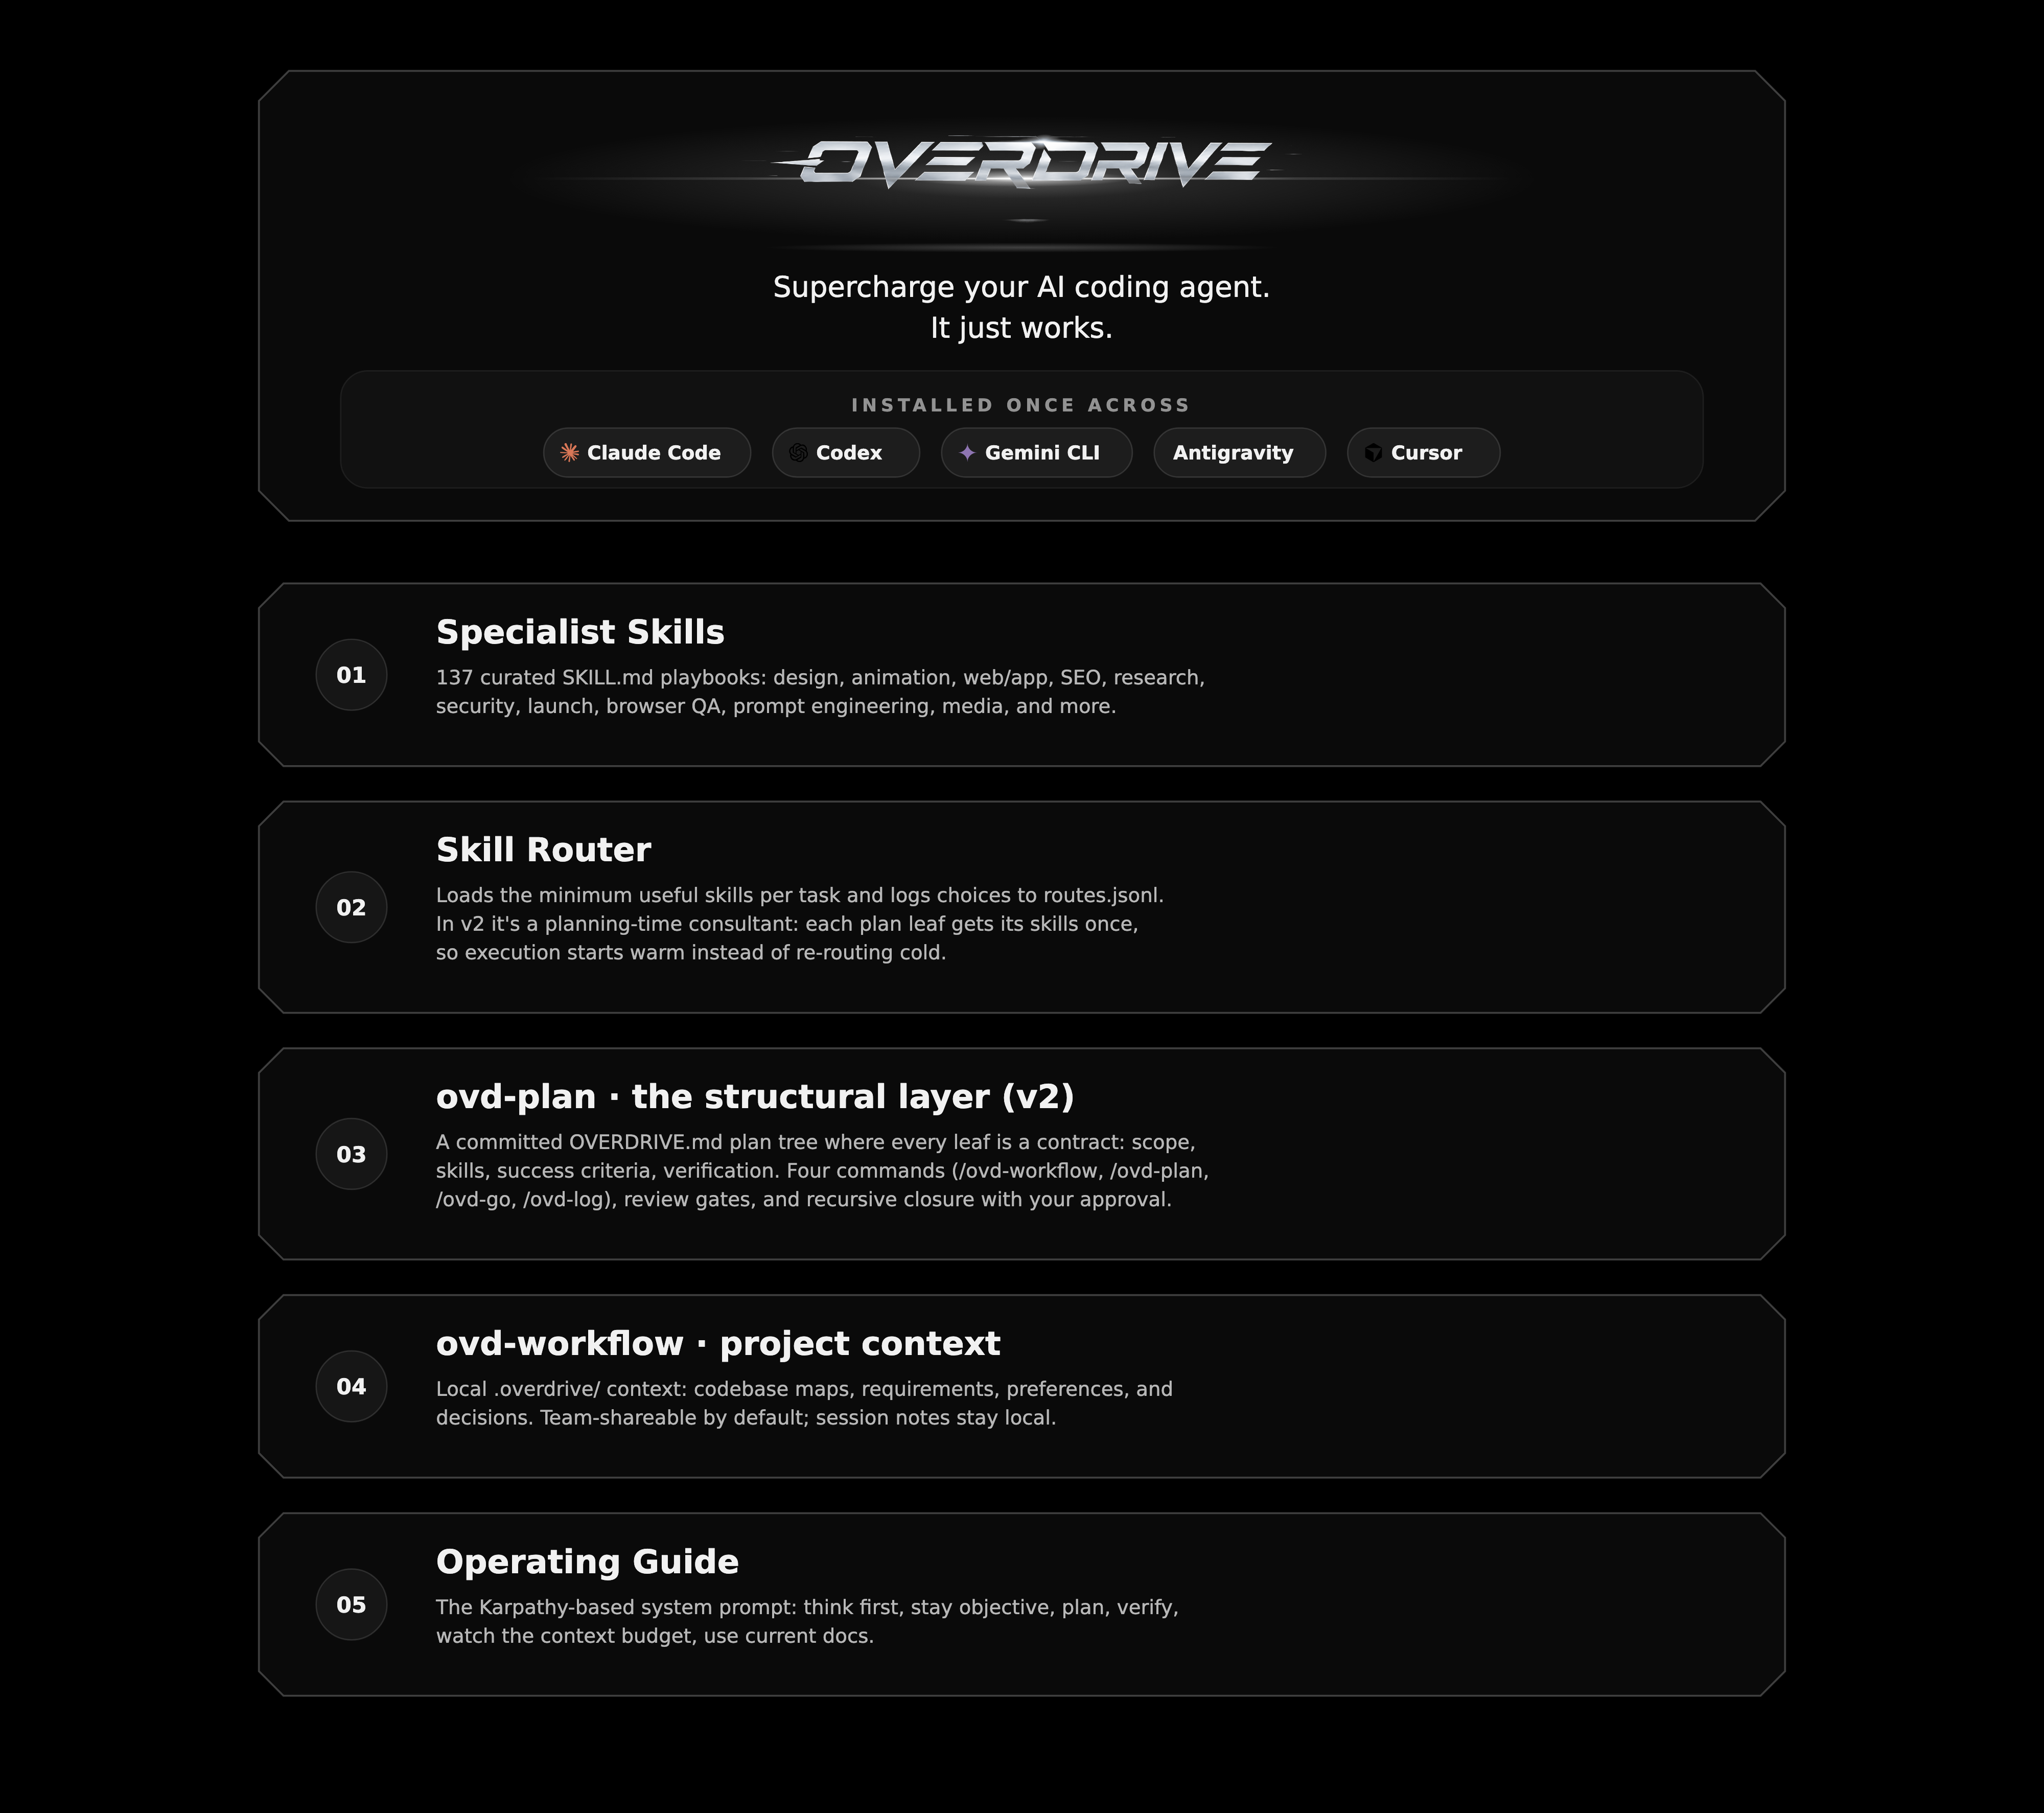
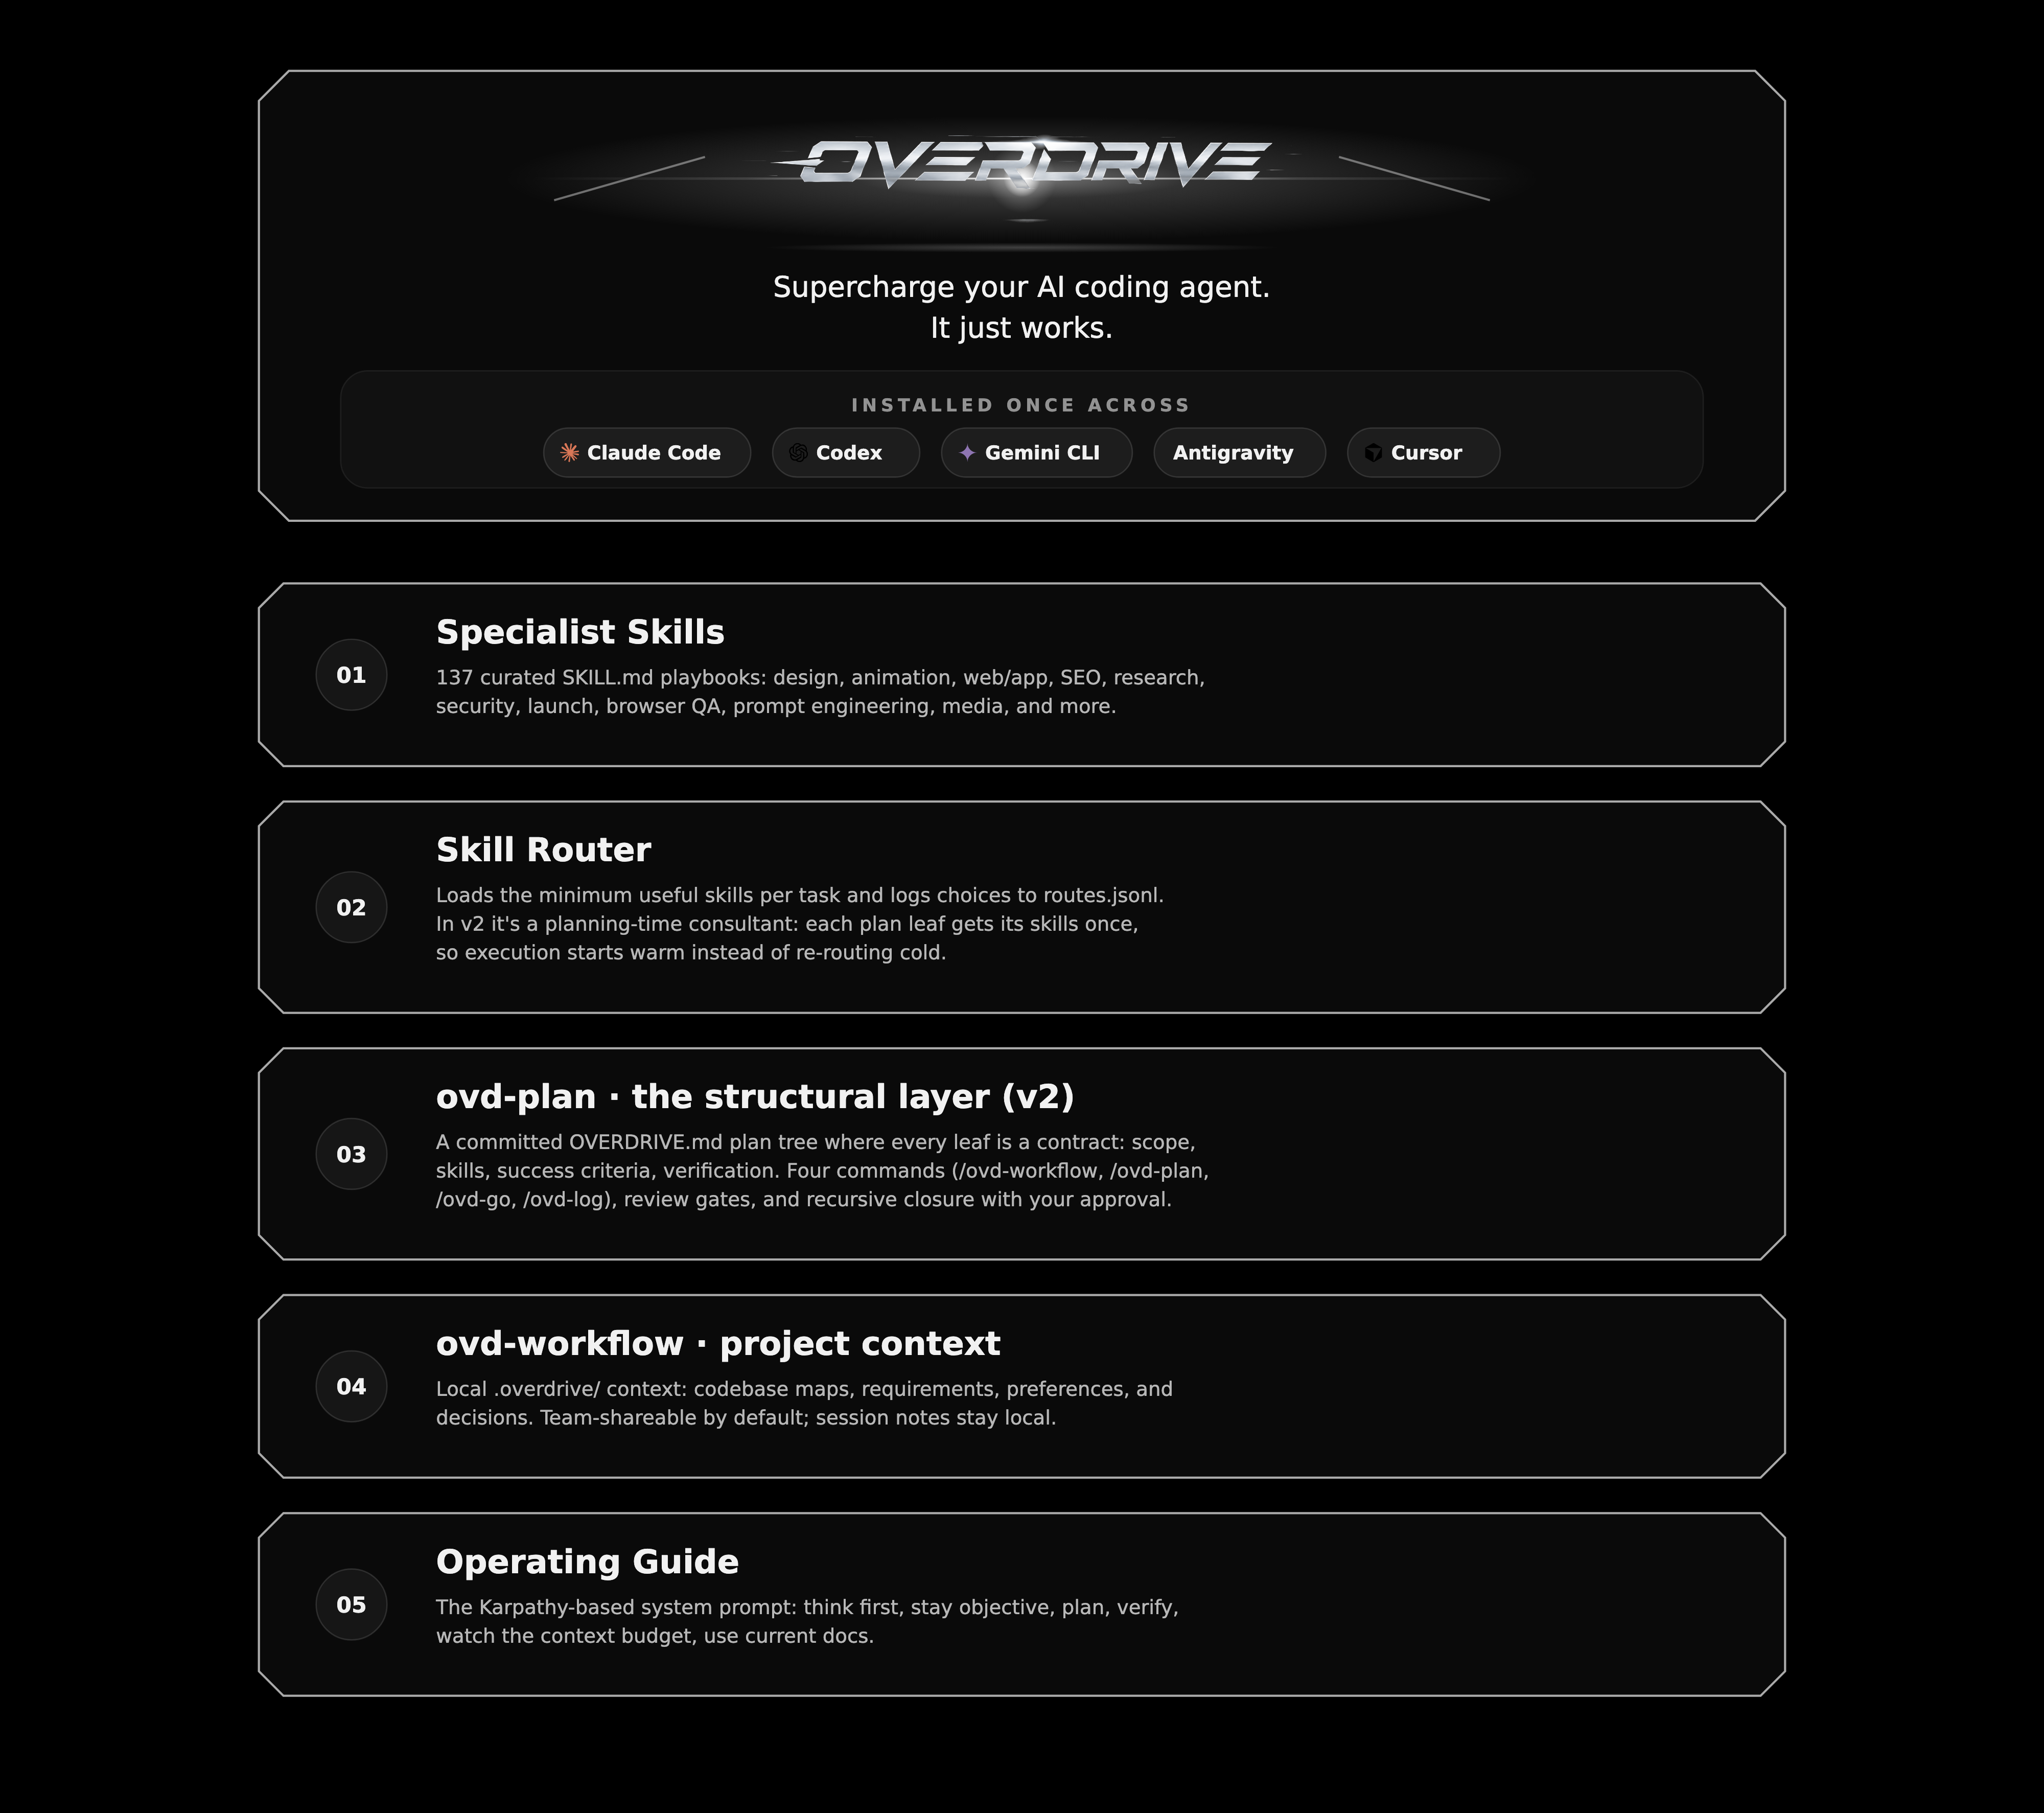
Stronger silver+flare on diagrams, revert unrequested edits, add Eugen's badges
Diagrams: box borders were nearly invisible at 32% opacity - bumped to
85% for a real silver metal edge. The flare's core was a paper-thin
sliver (rx46 x ry4); rebuilt it as a proper round hotspot with a soft
corona, plus two short motion-line accents flanking the wordmark, so
it actually reads as a lens flare instead of a faint glow. Removed
'v2' from the system diagram's 'How Overdrive v2 works' headline.

README: reverted the platform sentence to Stefan's exact original
wording (macOS only, no Oxford comma) - the earlier 'and Linux'
addition was an unrequested edit to his literal provided text and
should have been asked about rather than silently applied. Rewrote
the 'built for any skill level' paragraph back to his original
dictated wording, fixing only a run-on comma-splice and a misplaced
modifier ('overwriting unnecessary functions' -> 'unnecessarily
overwriting functions') rather than rephrasing his voice. Added
Eugen's LinkedIn/GitHub badges next to Stefan's, shortened all five
badge labels to first names so they read as one row.

Changed region(s): [[0.4688, 0.093, 0.5312, 0.124]]

diff --git a/README.md b/README.md
@@ -9,9 +9,11 @@
 [![node](https://img.shields.io/badge/node-%3E%3D18-2b3a44)](package.json)
 [![CI](https://github.com/radustefandumitru/overdrive/actions/workflows/ci.yml/badge.svg)](https://github.com/radustefandumitru/overdrive/actions/workflows/ci.yml)
 
-[![X](https://img.shields.io/badge/X-@StefanDumitruX-2b3a44?logo=x&logoColor=white)](https://x.com/StefanDumitruX)
-[![LinkedIn](https://img.shields.io/badge/LinkedIn-Radu%20Stefan%20Dumitru-2b3a44?logo=linkedin&logoColor=white)](https://www.linkedin.com/in/radustefandumitru/)
-[![GitHub](https://img.shields.io/badge/GitHub-radustefandumitru-2b3a44?logo=github&logoColor=white)](https://github.com/radustefandumitru)
+[![X](https://img.shields.io/badge/X-Stefan-2b3a44?logo=x&logoColor=white)](https://x.com/StefanDumitruX)
+[![LinkedIn](https://img.shields.io/badge/LinkedIn-Stefan-2b3a44?logo=linkedin&logoColor=white)](https://www.linkedin.com/in/radustefandumitru/)
+[![GitHub](https://img.shields.io/badge/GitHub-Stefan-2b3a44?logo=github&logoColor=white)](https://github.com/radustefandumitru)
+[![LinkedIn](https://img.shields.io/badge/LinkedIn-Eugen-2b3a44?logo=linkedin&logoColor=white)](https://www.linkedin.com/in/eugenbulboaca/)
+[![GitHub](https://img.shields.io/badge/GitHub-Eugen-2b3a44?logo=github&logoColor=white)](https://github.com/BulboacaEugen)
 
 [Install](#install-in-60-seconds) · [How it works](#what-changes-after-install) · [v2 project state](#project-state-management-system) · [Safety](#safety-privacy-and-updates) · [What's inside](#what-is-included) · [Docs](docs/) · [Credits](#credits)
 
@@ -25,9 +27,9 @@
 >
 > - Stef
 
-**Overdrive** is a complete, plug-and-play system for upgrading AI coding agents with global instructions built on Karpathy's system prompt, a curated catalog of 137 of the top skills as of 2026 plus custom skills built specifically for Overdrive, a skill router that picks only the right skills for the job, and a project state management system that keeps track of your decisions and progress across long-running sessions. It works across Claude Code, Codex, Gemini CLI, Antigravity, and Cursor on macOS and Linux, with Windows support coming soon.
+**Overdrive** is a complete, plug-and-play system for upgrading AI coding agents with global instructions built on Karpathy's system prompt, a curated catalog of 137 of the top skills as of 2026 plus custom skills built specifically for Overdrive, a skill router that picks only the right skills for the job, and a project state management system that keeps track of your decisions and progress across long-running sessions. It works across Claude Code, Codex, Gemini CLI, Antigravity and Cursor on macOS with Windows support coming soon.
 
-Overdrive is built for any skill level. It installs in about a minute and runs quietly in the background, so most people get the value from the skill router alone with nothing new to learn. For people who want more control, the `ovd` commands were deliberately kept simple, four commands instead of a sprawling surface, because a system only pays off if you actually keep using it. Modern models are already good at planning and reasoning on their own, so Overdrive doesn't try to override that. It adds structure and memory around what the model already does well, built to hold up over long-running projects instead of getting in the way.
+Overdrive is built for anybody at any skill level. It's easy to install and just runs in the background. For more experienced users, they can use the `ovd` commands, which were deliberately kept very simple and easy to use, as opposed to other similar systems that overcomplicate things. The new models are very good at doing certain things on their own. Overdrive was built to be flexible and work long-term, without unnecessarily overwriting functions built straight into the LLMs. It just builds on top of what's already there.
 
 ![Overdrive flow diagram](assets/[email redacted])
 